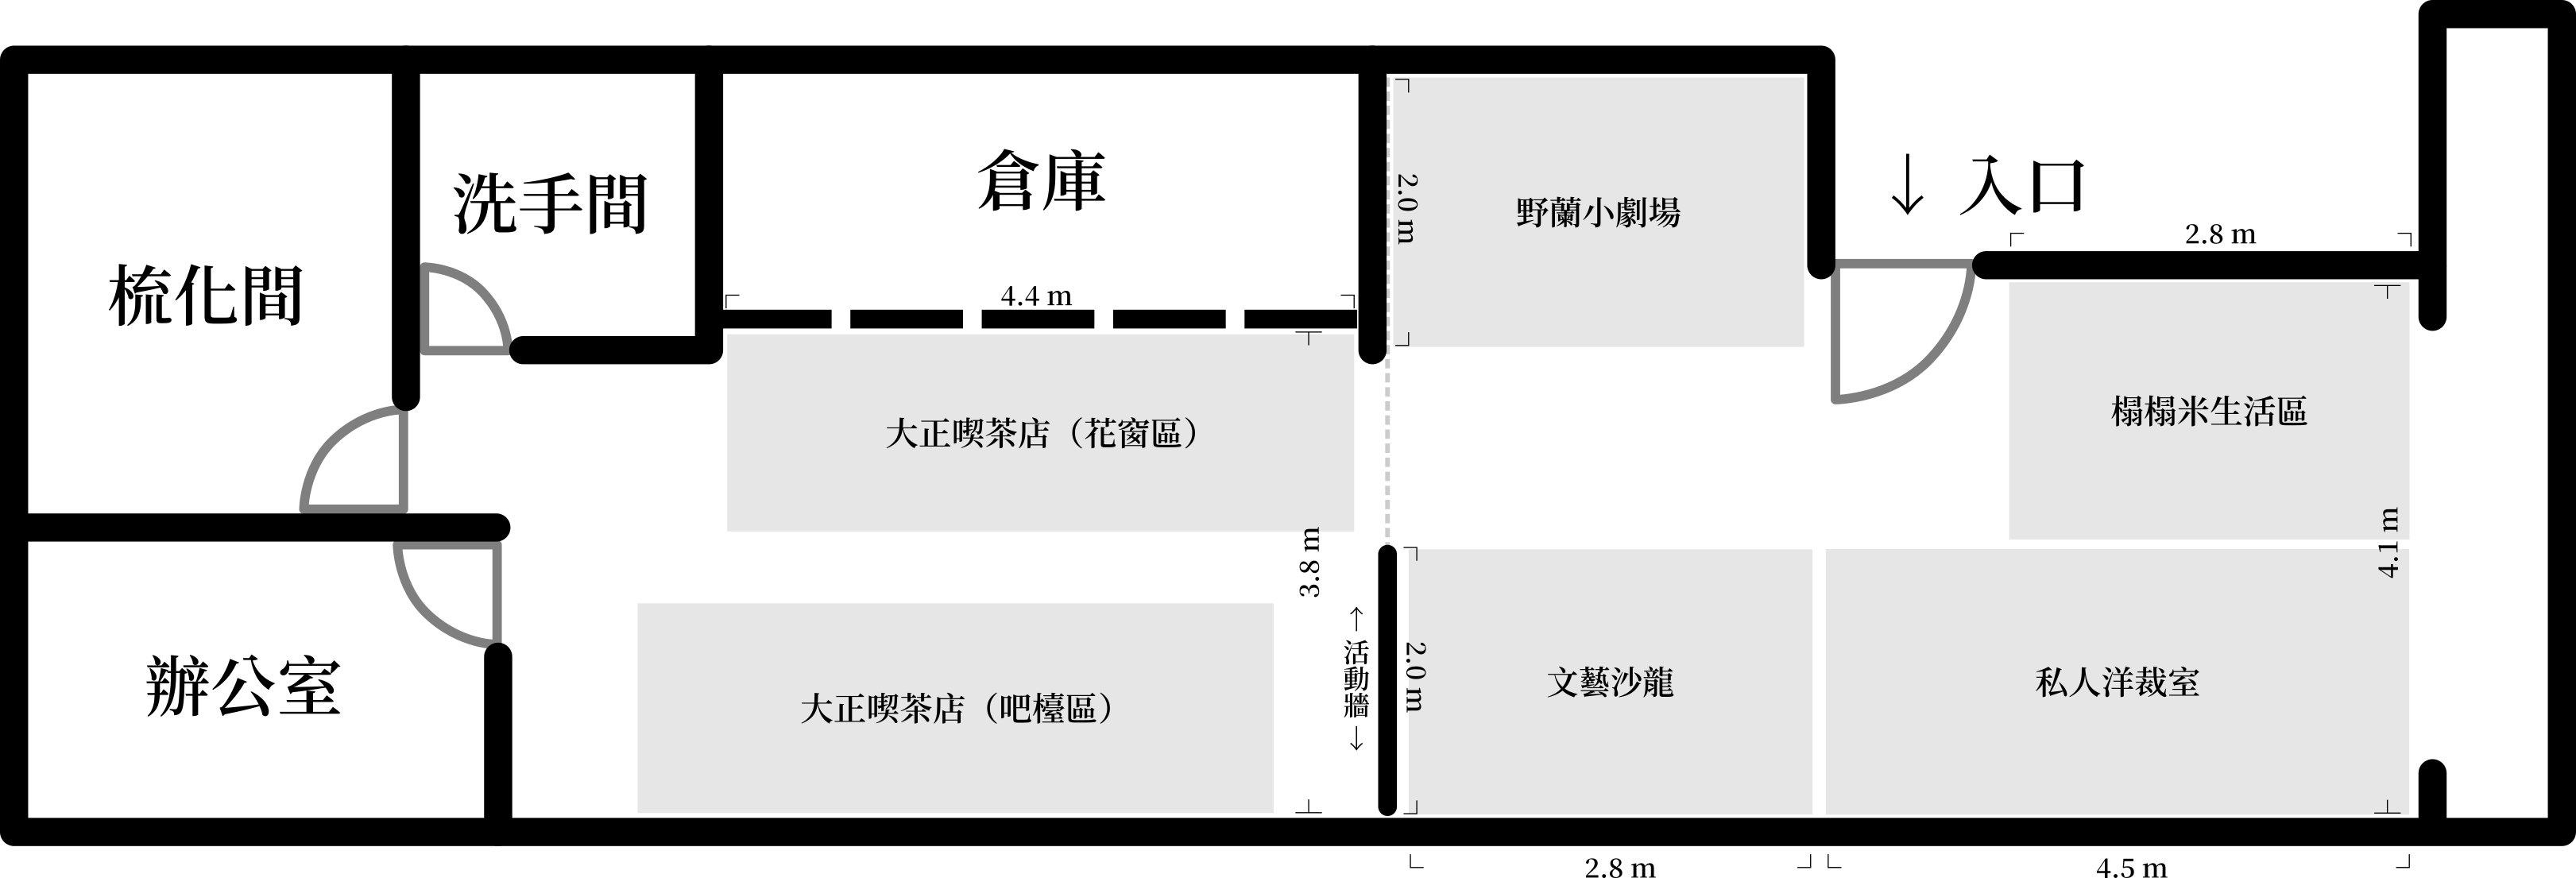
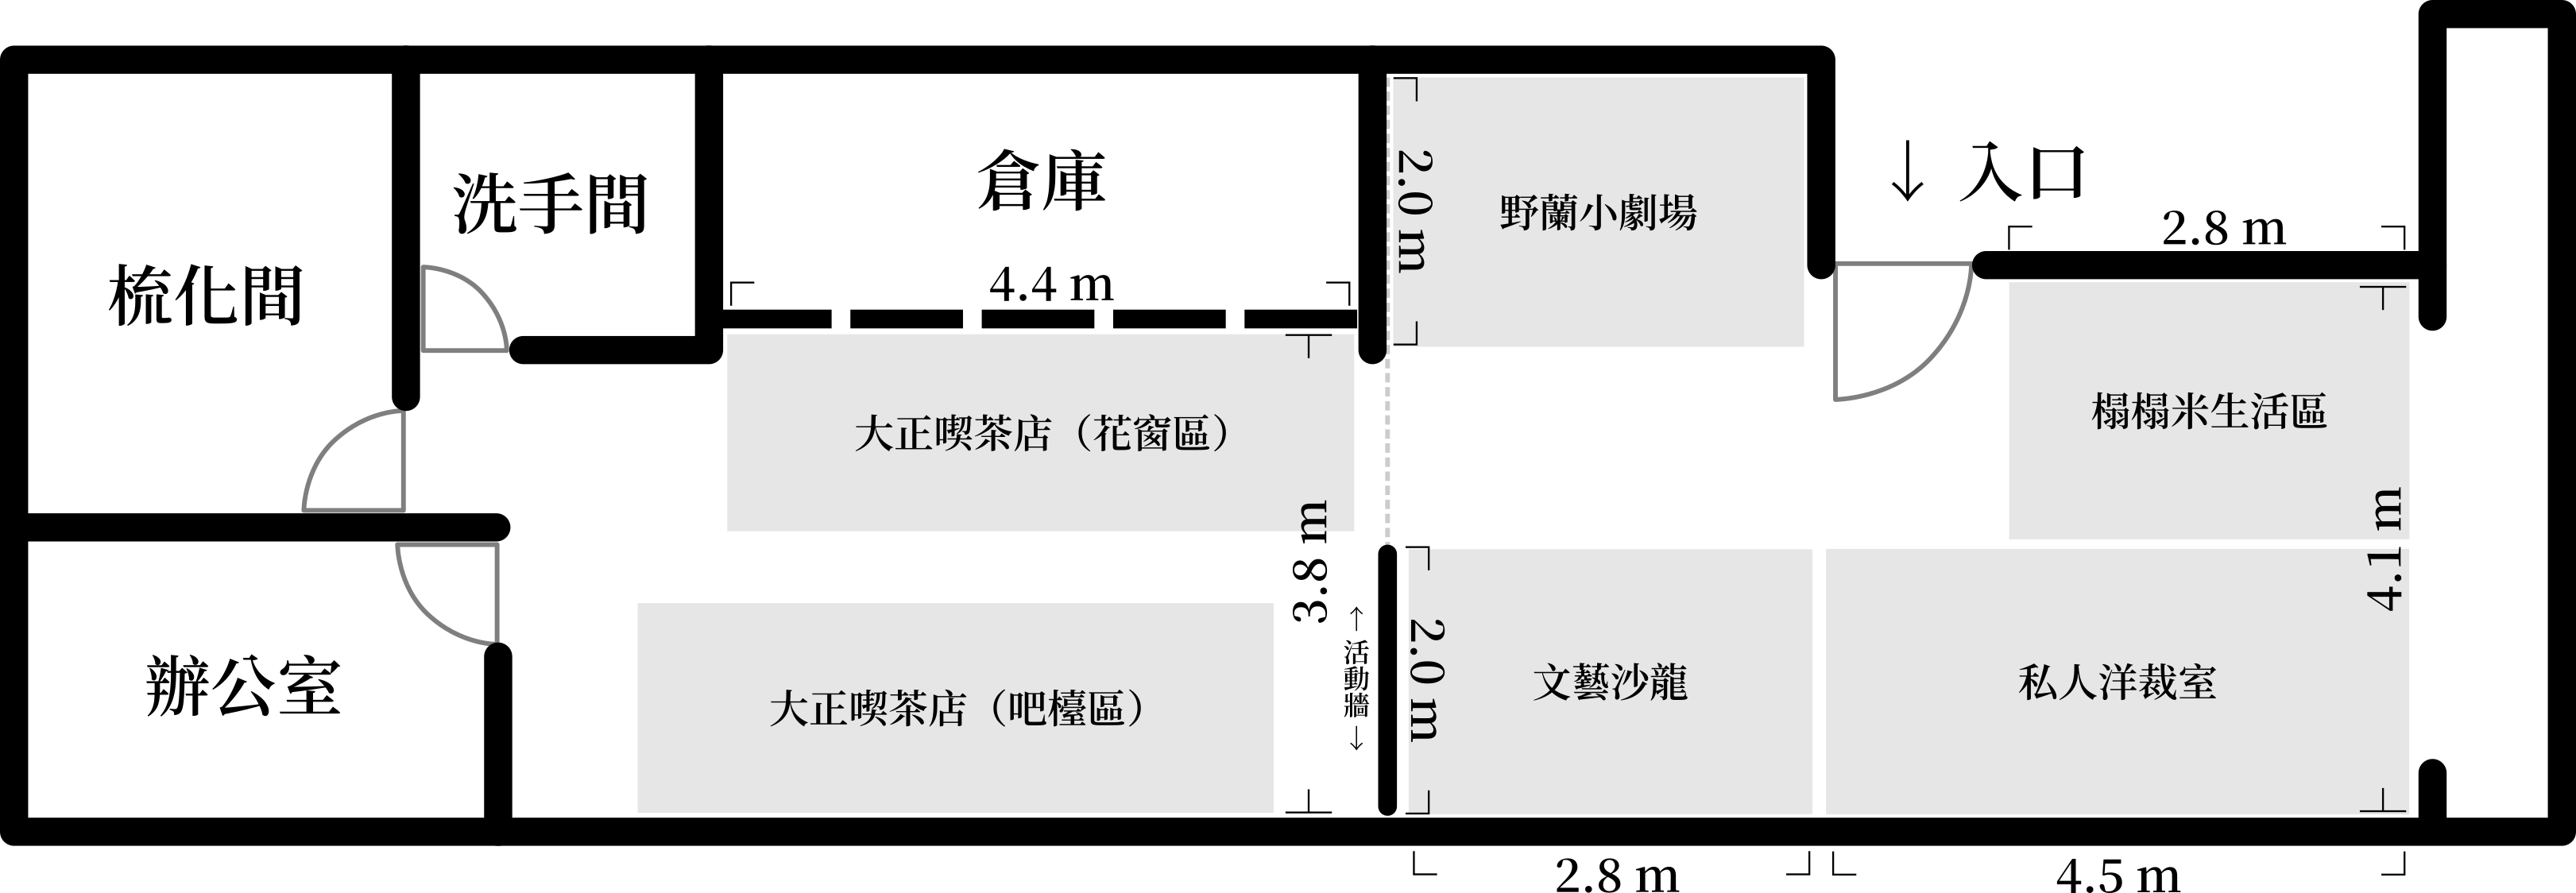
feat: (WIP) implement photography plans overview and individual plan detail pages with PhotoSwipe gallery

diff --git a/src/data/plans.ts b/src/data/plans.ts
@@ -1,0 +1,39 @@
+// 攝影方案資料。新增方案：丟一個圖片資料夾到 src/assets/images/plans/<imageDir>/，
+// 並在此加一筆即可，不需新增頁面。
+export interface Plan {
+  /** 網址 slug，對應 /plans/<slug> */
+  slug: string;
+  /** 頁籤與標題顯示名稱 */
+  title: string;
+  /** 一句話副標（顯示於標題下方） */
+  tagline?: string;
+  /** 介紹段落，每個字串為一段 */
+  intro: string[];
+  /** src/assets/images/plans/ 底下的資料夾名 */
+  imageDir: string;
+}
+
+export const plans: Plan[] = [
+  {
+    slug: "misora",
+    title: "御空和服",
+    tagline: "佔位副標 — 御空和服",
+    intro: [
+      "這是御空和服方案的介紹佔位文字。請在此描述和服的風格、色調與適合的拍攝氛圍，讓客人快速理解這套方案的特色。",
+      "第二段佔位文字。可以說明包含的內容、拍攝流程、或是這套和服背後的故事與設計理念。",
+    ],
+    imageDir: "misora",
+  },
+  {
+    slug: "blue-magpie",
+    title: "藍鵲和服",
+    tagline: "佔位副標 — 藍鵲和服",
+    intro: [
+      "這是藍鵲和服方案的介紹佔位文字。請在此描述和服的風格、色調與適合的拍攝氛圍。",
+      "第二段佔位文字。可以補充方案細節、搭配道具、或推薦的拍攝場景。",
+    ],
+    imageDir: "blue-magpie",
+  },
+];
+
+export const getPlan = (slug: string) => plans.find((p) => p.slug === slug);